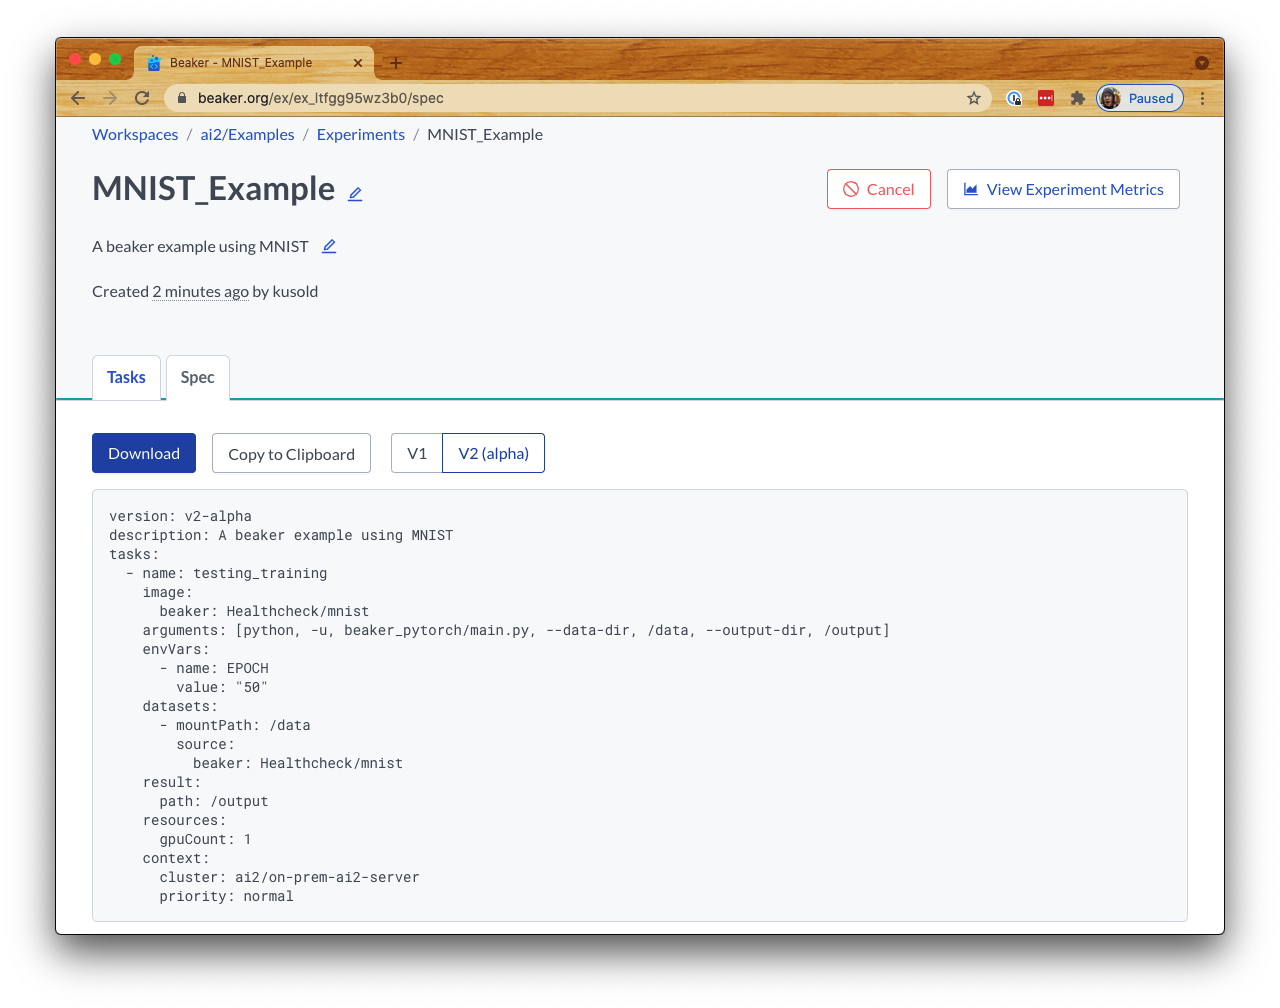
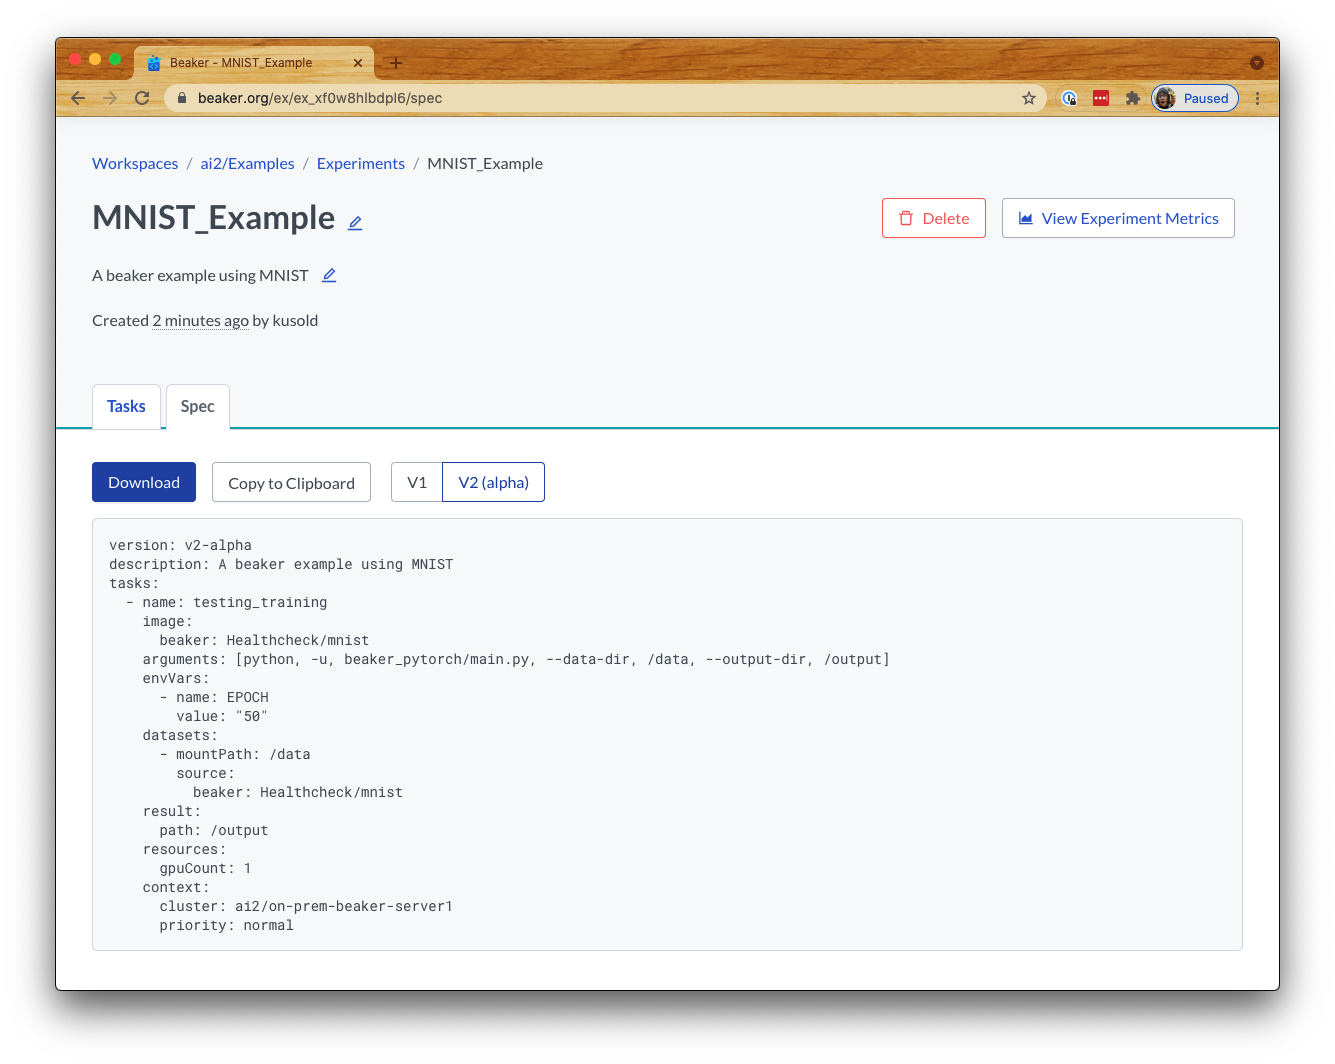
Updating experiment & image

diff --git a/docs/start/image.md b/docs/start/image.md
@@ -38,18 +38,18 @@ For this tutorial, use the code from [https://github.com/beaker/mnist-example](h
 
 1. Download https://github.com/beaker/mnist-example to your machine.
 
-2. Download the dataset from from [here](https://beaker.org/ds/ds_kf6v919aq7hk/details) to a subdirectory named `data` in `mnist-example-master`.  The *dataset* contains the files referenced by the code of the experiment. A convenient way to download the MNIST dataset from Beaker is to go to your `mnist-example-master` directory from your Terminal shell, then run:
+2. Download the dataset from from [here](https://beaker.org/ds/ds_efvqdiqlq7ld/details) to a subdirectory named `data` in `mnist-example-master`.  The *dataset* contains the files referenced by the code of the experiment. A convenient way to download the MNIST dataset from Beaker is to go to your `mnist-example-master` directory from your Terminal shell, then run:
 
   ```
-  $ beaker dataset fetch --output=./data ds_kf6v919aq7hk
+  $ beaker dataset fetch --output=./data ds_efvqdiqlq7ld
   ```
 
-You can get the dataset ID (ds_kf6v919aq7hk) from the dataset page on [Beaker.org](https://beaker.org/ds/ds_kf6v919aq7hk/details).
+You can get the dataset ID (ds_efvqdiqlq7ld) from the dataset page on [Beaker.org](https://beaker.org/ds/ds_efvqdiqlq7ld/details).
 
 The result is output:
 
 ```
-Downloading dataset ds_kf6v919aq7hk to directory ./data/ ... done.
+Downloading dataset ds_efvqdiqlq7ld to directory ./data/ ... done.
 ```
 
 Also, your `mnist-example-master/data` subdirectory should contain:
@@ -122,10 +122,10 @@ In later examples, we'll show you how to set up your own Dockerfile for building
 Now you have a Docker image of a complete local experiment's codebase and dataset. Next, create a Beaker *image* to represent this experiment and push it to Beaker.org for management and reuse.
 
 ```
-$ beaker image create -n <mymnist> mnist
+$ beaker image create -n <mymnist> mymnist
 ```
 
-Note can have only one Beaker image called mymnist. So, if you've created a mymnist blueprint previously, change <mymnist> to a unique name, such as mymnist2.
+Note can have only one Beaker image called mymnist. So, if you've created a mymnist blueprint previously, change `<mymnist>` to a unique name, such as mymnist2.
 
 If you successfully create the image, you should see output such as:
 ```
@@ -195,7 +195,7 @@ You can upload any file or collection of files as a dataset with the `beaker dat
 First, recall from above, this directory contains the four image source files used by this code:
 
 ```
-$ ls data
+$ ls ./data
 t10k-images-idx3-ubyte	t10k-labels-idx1-ubyte	train-images-idx3-ubyte	train-labels-idx1-ubyte
 ```
 

diff --git a/docs/start/experiment.md b/docs/start/experiment.md
@@ -8,7 +8,7 @@ Don't worry if you don't know about Python, Pytorch, or MNIST data; you won't ne
 
 For these instructions to work, you must have completed [installing Beaker](install.md). When installed:
 
-1. From the existing [MNIST example](https://beaker.org/ex/ex_ltfgg95wz3b0) experiment page on Beaker.org, click the **Spec** tab.
+1. From the existing [MNIST example](https://beaker.org/ex/ex_xf0w8hlbdpl6/spec) experiment page on Beaker.org, click the **Spec** tab.
 
    ![Spec for MNIST example](../images/ex_spec.png)
 
@@ -30,7 +30,7 @@ Experiment <experiment_id> submitted. See progress at https://beaker.org/ex/<exp
 
 The resulting experiment ID is unique to every experiment run.
 
-You can see your experiments tasks progress to completion at the URL provided by this output (for example, [https://beaker.org/ex/ex_kjkr81zmbfio](https://beaker.org/ex/ex_kjkr81zmbfio)).
+You can see your experiments tasks progress to completion at the URL provided by this output (for example, [https://beaker.org/ex/ex_xf0w8hlbdpl6/tasks](https://beaker.org/ex/ex_xf0w8hlbdpl6/tasks)).
 
 That's how an experiment is defined and shared by its spec, the YAML file containing the necessary metadata with which you can manage an experiment.
 
